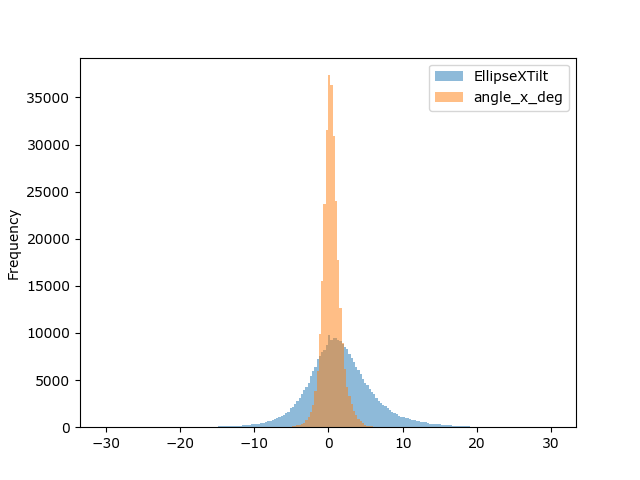
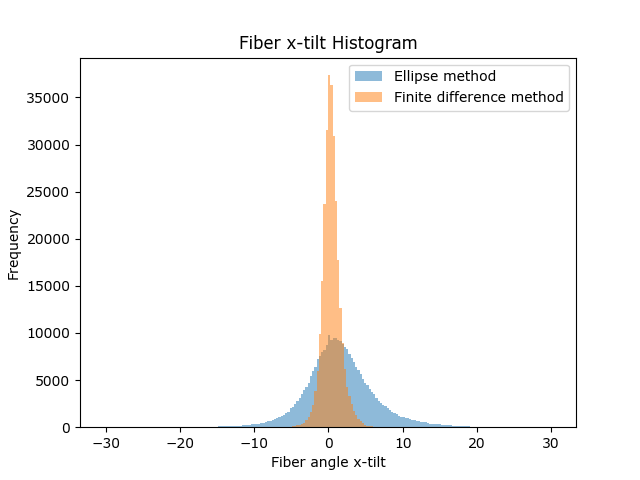
naming ellipse plots

Changed region(s): [[0.375, 0.0625, 0.875, 0.2188], [0.4062, 0.9375, 0.5938, 1.0]]

diff --git a/scrips/main.py b/scrips/main.py
@@ -41,10 +41,25 @@ df = df.dropna(subset=['dx', 'dy', 'dz']) #Clean data
 plotellipse(df,120)
 
 #Save 1D histograms
+plt.figure()
 ax = df[["EllipseXTilt","angle_x_deg"]].plot.hist(bins=200, alpha=0.5, legend = True)
+ax.set_title('Fiber x-tilt Histogram')
+ax.set_xlabel('Fiber angle x-tilt (°)')
+ax.set_ylabel('Frequency')
+handles, labels = ax.get_legend_handles_labels()
+ax.legend(handles, ["Ellipse method", "Finite difference method"])
 plt.savefig(fname="XTiltHist.png")
-ax2 = df[["EllipseYTilt", "angle_y_deg"]].plot.hist(bins=200, alpha=0.5, legend = True)
+plt.close()
+plt.figure()
+ax = plt.gca()
+ax = df[["EllipseYTilt", "angle_y_deg"]].plot.hist(bins=200, alpha=0.5, legend = True)
+ax.set_title('Fiber y-tilt Histogram')
+ax.set_xlabel('Fiber angle y-tilt (°)')
+ax.set_ylabel('Frequency')
+handles, labels = ax.get_legend_handles_labels()
+ax.legend(handles, ["Ellipse method", "Finite difference method"])
 plt.savefig(fname="YTiltHist.png")
+plt.close()
 
 #Save 2D hex plots
 ax3 = df.plot.hexbin(x="EllipseXTilt", y="EllipseYTilt", gridsize=100, cmap="viridis", xlim = (-10, 10), ylim = (-10, 10))
